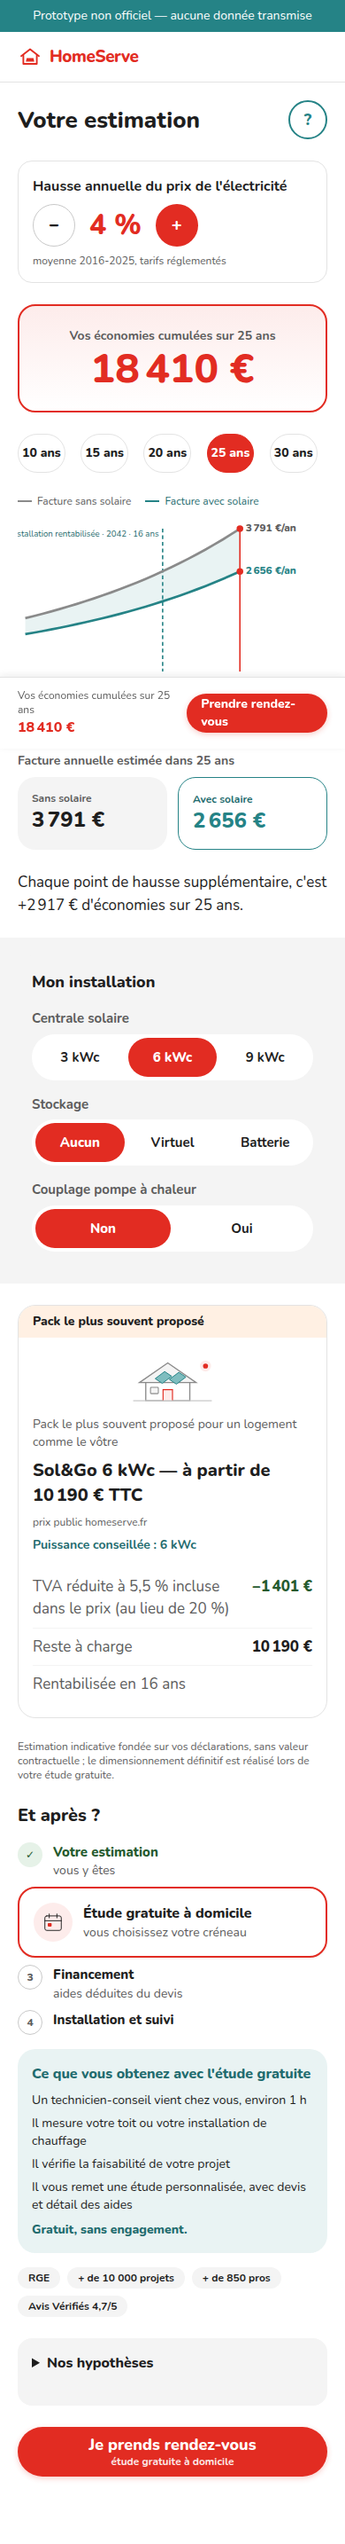
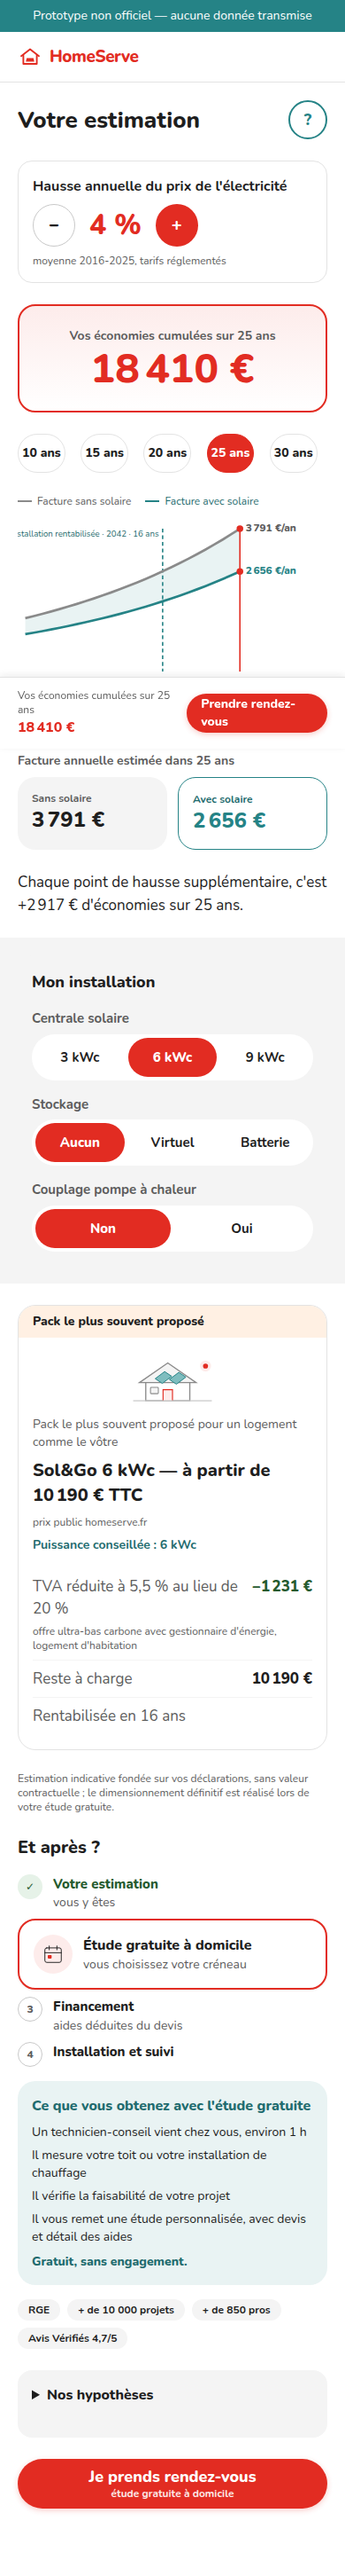
feat(resultat): TVA réduite conditionnée, à la place de la ligne « Aides »
La prime à l'autoconsommation est nulle depuis le 05/06/2026 : l'avantage
fiscal réel du solaire, c'est le taux réduit. La carte pack annonce
« TVA réduite à 5,5 % au lieu de 20 % : −1 231 € » sur le Sol&Go 6 kWc, avec
la mention des conditions — offre ultra-bas carbone avec gestionnaire
d'énergie, logement d'habitation.

Formule arbitrée par le product owner : prix × (0,20 − 0,055) / 1,20, soit
−784 € en 3 kWc, −1 231 € en 6 kWc, −1 570 € en 9 kWc. La ligne ne s'affiche
qu'en deçà du plafond de puissance, lu dans `hypotheses.json` : nos trois
packs y sont, un pack plus puissant en sortirait tout seul.

Batterie physique : la ligne reste, sur les panneaux, et la mention dit que la
batterie est facturée à 20 % avec une facturation séparée. Le stockage
virtuel, qui n'est pas du matériel, ne change rien.

`hypotheses.json` porte désormais les conditions et la source de l'arrêté du
1er octobre 2025 ; le bloc « Nos hypothèses » les affiche.

Claude-Session: https://claude.ai/code/session_01NwWthX9S8Kxcjqkt96twac

diff --git a/components/resultat/blocs.tsx b/components/resultat/blocs.tsx
@@ -275,10 +275,17 @@ export function Configurateur({
 export function CartePack({
   resultat,
   rentabiliteAns,
+  stockage = "aucun",
   apercu = false,
 }: PropsApercu & {
   resultat: SolaireResult;
   rentabiliteAns?: number | null;
+  /**
+   * D59 : la batterie physique est exclue du taux réduit. La ligne reste, mais
+   * elle ne porte plus que sur les panneaux — et le dit. Le stockage virtuel,
+   * qui n'est pas du matériel, n'a aucun effet.
+   */
+  stockage?: ReglagesInstallation["stockage"];
 }) {
   const { recommandation, rentabilite } = contenu.resultat;
 
@@ -307,19 +314,28 @@ export function CartePack({
 
         <dl className="mt-2 flex flex-col divide-y divide-neutre-100 text-[17px]">
           {/* D59 : la prime à l'autoconsommation est nulle depuis le
-              05/06/2026 et n'est plus affichée. L'avantage réel du solaire
-              côté fiscalité, c'est le taux réduit, déjà dans le prix. */}
-          <div className="flex justify-between gap-3 py-2">
-            <dt className="text-neutre-500">
-              {remplacer(recommandation.tva, {
-                reduite: pourcent(hypotheses.aides_solaire.tva_reduite.valeur),
-                normale: pourcent(hypotheses.aides_solaire.tva_normale.valeur),
-              })}
-            </dt>
-            <dd className="whitespace-nowrap font-extrabold text-vert-600">
-              −{euros(resultat.economieTva)} €
-            </dd>
-          </div>
+              05/06/2026 et n'est plus affichée. L'avantage fiscal réel du
+              solaire, c'est le taux réduit. */}
+          {resultat.tvaReduiteEligible ? (
+            <div className="flex flex-col gap-1 py-2">
+              <div className="flex justify-between gap-3">
+                <dt className="text-neutre-500">
+                  {remplacer(recommandation.tva, {
+                    reduite: pourcent(hypotheses.aides_solaire.tva_reduite.valeur),
+                    normale: pourcent(hypotheses.aides_solaire.tva_normale.valeur),
+                  })}
+                </dt>
+                <dd className="whitespace-nowrap font-extrabold text-vert-600">
+                  −{euros(resultat.economieTva)} €
+                </dd>
+              </div>
+              <p className="text-xs text-neutre-500">
+                {stockage === "batterie"
+                  ? recommandation.tva_mention_batterie
+                  : recommandation.tva_mention}
+              </p>
+            </div>
+          ) : null}
           <div className="flex justify-between py-2">
             <dt className="text-neutre-500">{recommandation.reste}</dt>
             <dd className="font-extrabold text-neutre-700">
@@ -428,7 +444,7 @@ export function BlocHypotheses() {
       aides_solaire.prime_autoconsommation_eur_par_kwc.source,
     ],
     [
-      `TVA réduite ${pourcent(aides_solaire.tva_reduite.valeur)} % au lieu de ${pourcent(aides_solaire.tva_normale.valeur)} %`,
+      `TVA réduite ${pourcent(aides_solaire.tva_reduite.valeur)} % au lieu de ${pourcent(aides_solaire.tva_normale.valeur)} % — ${aides_solaire.tva_reduite.conditions.join(", ")}`,
       aides_solaire.tva_reduite.source,
     ],
     [`Taux d'autoproduction borné à ${tap.min}–${tap.max} %`, tap.facture_annuelle_par_tranche.source],

diff --git a/test/resultat.test.tsx b/test/resultat.test.tsx
@@ -77,11 +77,45 @@ describe("variante par défaut", () => {
     expect(carte.textContent).not.toContain("Aides estimées");
     expect(carte.textContent).toContain(contenu.resultat.recommandation.reste);
 
-    // Sol&Go 6 kWc à 10 190 € TTC : 10 190 × (1,20 / 1,055 − 1) = 1 401 €.
+    // Sol&Go 6 kWc à 10 190 € TTC : 10 190 × (0,20 − 0,055) / 1,20 = 1 231 €.
+    expect(screen.getByText(/TVA réduite à 5,5 % au lieu de 20 %/)).toBeDefined();
+    expect(carte.textContent).toMatch(/−1[\u00a0\u202f ]231[\u00a0\u202f ]€/);
+
+    // Conditions du taux réduit, dites sous la ligne.
     expect(
-      screen.getByText(/TVA réduite à 5,5 % incluse dans le prix/),
+      screen.getByText(contenu.resultat.recommandation.tva_mention),
     ).toBeDefined();
-    expect(carte.textContent).toMatch(/−1[\u00a0\u202f ]401[\u00a0\u202f ]€/);
+  });
+
+  it("D59 : la batterie dit que seuls les panneaux gardent le taux réduit", () => {
+    render(<Resultat />);
+
+    fireEvent.click(
+      screen.getByRole("button", {
+        name: contenu.resultat.configurateur.stockage.options.batterie,
+      }),
+    );
+
+    const { recommandation } = contenu.resultat;
+    expect(screen.getByText(recommandation.tva_mention_batterie)).toBeDefined();
+    expect(screen.queryByText(recommandation.tva_mention)).toBeNull();
+    // La ligne reste, sur les panneaux : même montant qu'en « aucun ».
+    expect(screen.getByText(/TVA réduite à 5,5 % au lieu de 20 %/)).toBeDefined();
+  });
+
+  it("D59 : le stockage virtuel n'a aucun effet sur la TVA", () => {
+    render(<Resultat />);
+
+    fireEvent.click(
+      screen.getByRole("button", {
+        name: contenu.resultat.configurateur.stockage.options.virtuel,
+      }),
+    );
+
+    expect(
+      screen.getByText(contenu.resultat.recommandation.tva_mention),
+    ).toBeDefined();
+    expect(document.body.textContent).toMatch(/−1[\u00a0\u202f ]231[\u00a0\u202f ]€/);
   });
 
   it("affiche le prix du stockage retenu en sous-ligne", () => {
@@ -563,11 +597,17 @@ describe("projet pompe à chaleur", () => {
     ).toBeDefined();
   });
 
-  it("n'affiche ni pack solaire ni configurateur", () => {
+  it("n'affiche ni pack solaire ni configurateur ni ligne de TVA (D59)", () => {
     render(<Resultat />);
 
     expect(screen.queryByText(contenu.resultat.configurateur.titre)).toBeNull();
     expect(screen.queryByText(contenu.resultat.recommandation.intro)).toBeNull();
+    // La ligne de TVA porte sur les panneaux : absente d'un projet PAC.
+    // (Le bloc « Nos hypothèses » garde la sienne, qui documente la donnée.)
+    expect(screen.queryByText(/^TVA réduite à /)).toBeNull();
+    expect(
+      screen.queryByText(contenu.resultat.recommandation.tva_mention),
+    ).toBeNull();
     // La légende de la courbe et la tuile portent le même libellé.
     expect(
       screen.getAllByText(contenu.resultat.tuiles_pac.avec).length,

diff --git a/engine/solaire.ts b/engine/solaire.ts
@@ -105,10 +105,13 @@ export type SolaireResult = {
   surplusAn: number;
   aides: number;
   /**
-   * D59 : économie de TVA déjà comprise dans le prix public. Le pack est
-   * facturé à 5,5 % ; à 20 % il coûterait ce montant de plus.
+   * D59 : ce que le taux réduit fait gagner sur le pack, à formule du product
+   * owner — prix × (0,20 − 0,055) / 1,20. Nulle si la puissance dépasse le
+   * plafond du taux réduit (9 kWc).
    */
   economieTva: number;
+  /** Le pack ouvre-t-il droit au taux réduit ? (≤ 9 kWc, arrêté 01/10/2025) */
+  tvaReduiteEligible: boolean;
   resteACharge: number;
   retourAns: number;
   horsZone: boolean;
@@ -318,12 +321,19 @@ export function simulerSolaire(
   const aides =
     hypotheses.aides_solaire.prime_autoconsommation_eur_par_kwc.valeur *
     kwcConseille;
-  // Prix TTC à 5,5 % → HT → TTC à 20 % : l'écart est ce que le taux réduit
-  // fait économiser, sans jamais sortir des taux de `hypotheses.json`.
+  /**
+   * Taux réduit (arrêté du 01/10/2025) : réservé aux installations d'au plus
+   * 9 kWc. Les trois packs y sont éligibles ; le plafond reste lu dans les
+   * données pour qu'un pack plus puissant sorte du dispositif tout seul.
+   */
   const { tva_reduite, tva_normale } = hypotheses.aides_solaire;
-  const economieTva = Math.round(
-    pack.prix_ttc * ((1 + tva_normale.valeur) / (1 + tva_reduite.valeur) - 1),
-  );
+  const tvaReduiteEligible = kwcConseille <= tva_reduite.kwc_max;
+  const economieTva = tvaReduiteEligible
+    ? Math.round(
+        (pack.prix_ttc * (tva_normale.valeur - tva_reduite.valeur)) /
+          (1 + tva_normale.valeur),
+      )
+    : 0;
 
   const resteACharge = Math.max(pack.prix_ttc - aides, 0);
   const gainAn = economiesAn + surplusAn;
@@ -343,6 +353,7 @@ export function simulerSolaire(
     surplusAn,
     aides,
     economieTva,
+    tvaReduiteEligible,
     resteACharge,
     retourAns,
     horsZone: zone.eligible === false,

diff --git a/test/engine/solaire.test.ts b/test/engine/solaire.test.ts
@@ -141,15 +141,34 @@ describe("simulerSolaire — bornes et coefficients", () => {
     const { tva_reduite, tva_normale } = hypotheses.aides_solaire;
     const r = simulerSolaire(EXEMPLE_EDF);
 
-    // Le prix public est TTC à 5,5 % ; à 20 %, il coûterait cet écart de plus.
+    // Formule arbitrée par le PO : prix × (0,20 − 0,055) / 1,20.
     const attendu = Math.round(
-      r.prixPack * ((1 + tva_normale.valeur) / (1 + tva_reduite.valeur) - 1),
+      (r.prixPack * (tva_normale.valeur - tva_reduite.valeur)) /
+        (1 + tva_normale.valeur),
     );
     expect(r.economieTva).toBe(attendu);
-    expect(r.economieTva).toBe(1401); // Sol&Go 6 kWc, 10 190 € TTC
+    expect(r.economieTva).toBe(1231); // Sol&Go 6 kWc, 10 190 € TTC
 
     // Elle est déjà dans le prix : le reste à charge ne la déduit pas.
     expect(r.resteACharge).toBe(r.prixPack);
+  });
+
+  it("D59 : les trois packs tiennent sous le plafond de 9 kWc", () => {
+    for (const kwc of [3, 6, 9] as const) {
+      const r = simulerSolaire(EXEMPLE_EDF, { kwc });
+      expect(r.kwcConseille).toBeLessThanOrEqual(
+        hypotheses.aides_solaire.tva_reduite.kwc_max,
+      );
+      expect(r.tvaReduiteEligible).toBe(true);
+      expect(r.economieTva).toBeGreaterThan(0);
+    }
+  });
+
+  it("D59 : le stockage ne change pas l'économie de TVA", () => {
+    const base = simulerSolaire(EXEMPLE_EDF).economieTva;
+    for (const stockage of ["virtuel", "batterie"] as const) {
+      expect(simulerSolaire(EXEMPLE_EDF, { stockage }).economieTva).toBe(base);
+    }
   });
 
   it("l'économie de TVA suit la puissance choisie", () => {

diff --git a/components/Resultat.tsx b/components/Resultat.tsx
@@ -391,6 +391,7 @@ export function Resultat() {
           <CartePack
             resultat={resultat}
             rentabiliteAns={rentabilite}
+            stockage={reglages.stockage}
           />
 
           <p className="text-xs text-neutre-500">{t.rentabilite.mention}</p>
